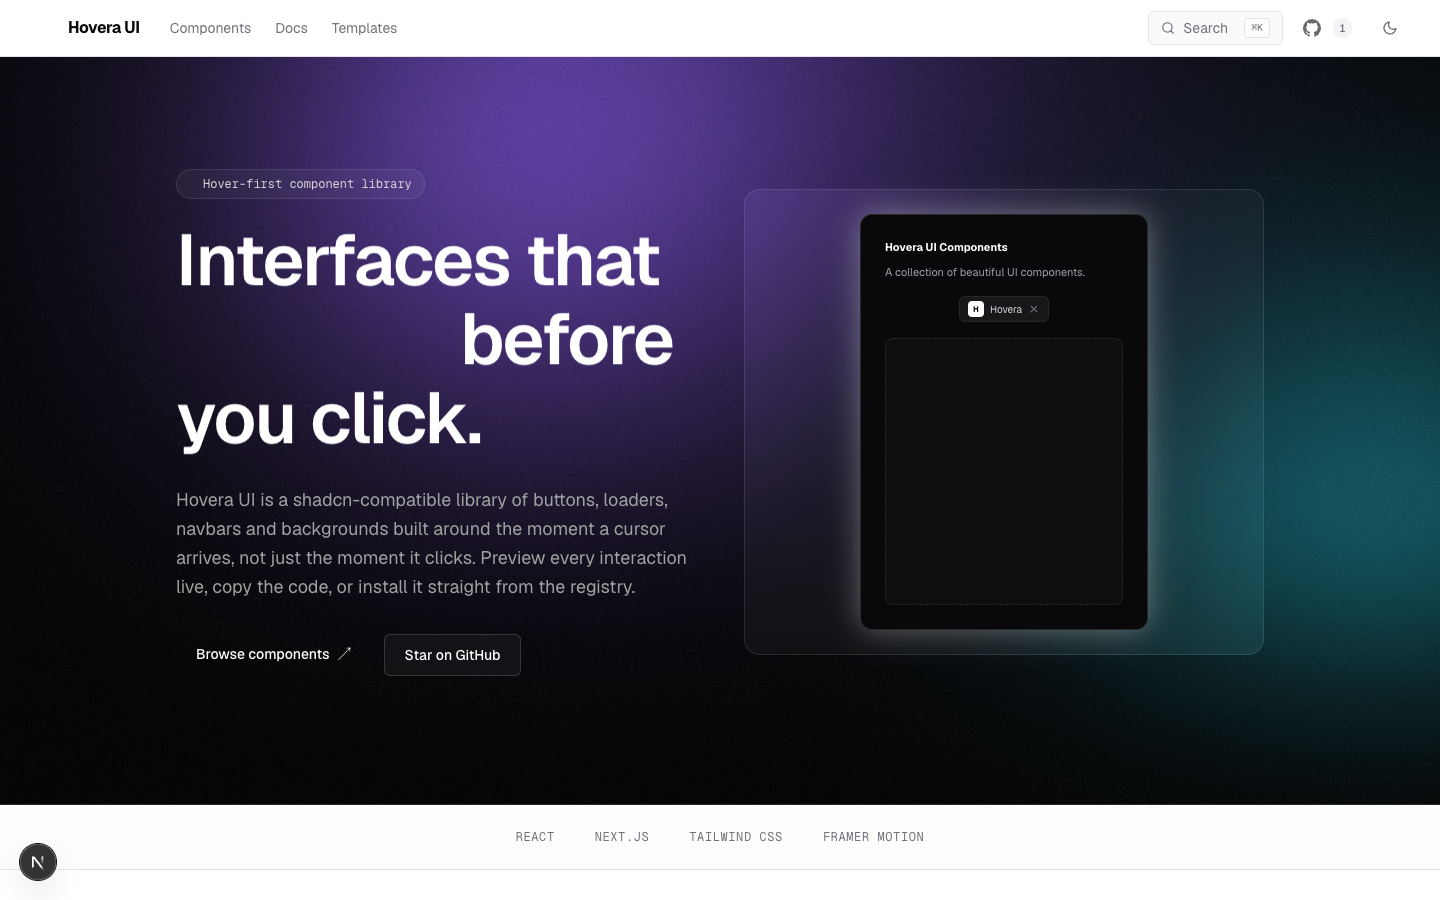
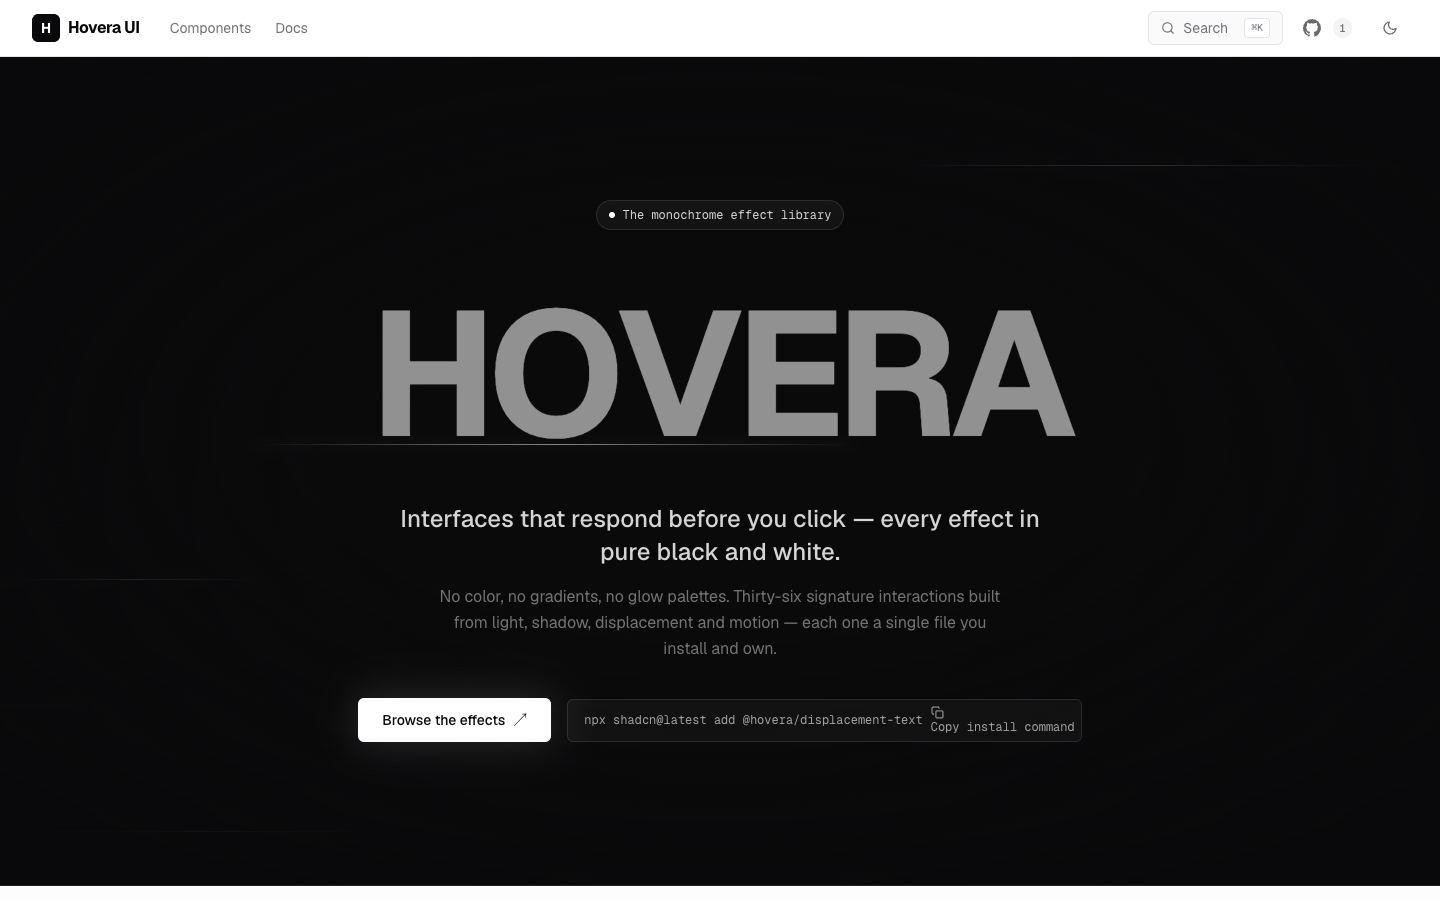
Monochrome cut finale: changelog, a11y 100, proof screenshots
- CHANGELOG records the 54 retired slugs, 4 added effects, IA move, and
  Lighthouse scores (desktop 99/100, mobile 88/100, CLS 0, TBT 0)
- DisplacementText ships sr-only text instead of prohibited aria-label on
  a span (fixes consumers too); GitHub-stars link name matches visible text
- Hero LCP text paints immediately; fresh screenshots in .github/screens

diff --git a/src/components/landing/Hero.tsx b/src/components/landing/Hero.tsx
@@ -66,14 +66,11 @@ export default function Hero() {
           />
         </div>
 
-        <h1
-          style={entrance(0.4)}
-          className="mt-4 max-w-2xl text-xl font-medium leading-snug text-neutral-300 sm:text-2xl"
-        >
+        <h1 className="mt-4 max-w-2xl text-xl font-medium leading-snug text-neutral-300 sm:text-2xl">
           Interfaces that respond before you click — every effect in pure black and white.
         </h1>
 
-        <p style={entrance(0.5)} className="mt-4 max-w-xl text-sm leading-relaxed text-neutral-500 sm:text-base">
+        <p className="mt-4 max-w-xl text-sm leading-relaxed text-neutral-500 sm:text-base">
           No color, no gradients, no glow palettes. Thirty-six signature interactions built from
           light, shadow, displacement and motion — each one a single file you install and own.
         </p>
@@ -96,7 +93,7 @@ export default function Hero() {
           <div className="flex items-center gap-2 rounded-md border border-white/10 bg-white/[0.03] py-1.5 pr-1.5 pl-4 font-mono text-xs text-neutral-400 backdrop-blur-sm">
             <span className="hidden sm:inline">{INSTALL}</span>
             <span className="sm:hidden">npx shadcn add @hovera/…</span>
-            <CopyButton code={INSTALL} label="Copy install command" />
+            <CopyButton code={INSTALL} label="Copy" />
           </div>
         </div>
       </motion.div>

diff --git a/src/components/layout/SiteNav.tsx b/src/components/layout/SiteNav.tsx
@@ -97,12 +97,12 @@ export default function SiteNav({ onOpenSidebar, onOpenCommand }: SiteNavProps) 
               href="https://github.com/WebDevAmey/HoveraUI"
               target="_blank"
               rel="noreferrer"
-              aria-label="Hovera UI on GitHub"
               className="flex h-8 items-center gap-1.5 rounded-md px-2 text-foreground/60 transition-colors hover:bg-secondary hover:text-foreground"
             >
               <svg width="18" height="18" viewBox="0 0 16 16" fill="currentColor" aria-hidden="true">
                 <path d="M8 0c4.42 0 8 3.58 8 8a8.01 8.01 0 0 1-5.45 7.59c-.4.08-.55-.17-.55-.38c0-.27.01-1.13.01-2.2c0-.75-.25-1.23-.54-1.48c1.78-.2 3.65-.88 3.65-3.95c0-.88-.31-1.59-.82-2.15c.08-.2.36-1.02-.08-2.12c0 0-.67-.22-2.2.82c-.64-.18-1.32-.27-2-.27s-1.36.09-2 .27c-1.53-1.03-2.2-.82-2.2-.82c-.44 1.1-.16 1.92-.08 2.12c-.51.56-.82 1.28-.82 2.15c0 3.06 1.86 3.75 3.64 3.95c-.23.2-.44.55-.51 1.07c-.46.21-1.61.55-2.33-.66c-.15-.24-.6-.83-1.23-.82c-.67.01-.27.38.01.53c.34.19.73.9.82 1.13c.16.45.68 1.31 2.69.94c0 .67.01 1.3.01 1.49c0 .21-.15.45-.55.38A7.995 7.995 0 0 1 0 8c0-4.42 3.58-8 8-8" />
               </svg>
+              <span className="sr-only">GitHub stars: </span>
               <GithubStars />
             </Link>
           </motion.div>

diff --git a/src/data/text.ts b/src/data/text.ts
@@ -229,8 +229,8 @@ export default function DisplacementText({
         "inline-flex cursor-default select-none py-6 text-4xl font-bold tracking-tight text-white " +
         className
       }
-      aria-label={text}
     >
+      <span className="sr-only">{text}</span>
       {text.split("").map((char, i) => (
         <span
           key={i}

diff --git a/src/components/text/DisplacementText.tsx b/src/components/text/DisplacementText.tsx
@@ -69,8 +69,8 @@ export default function DisplacementText({
         "inline-flex cursor-default select-none py-6 text-4xl font-bold tracking-tight text-white " +
         className
       }
-      aria-label={text}
     >
+      <span className="sr-only">{text}</span>
       {text.split("").map((char, i) => (
         <span
           key={i}

diff --git a/CHANGELOG.md b/CHANGELOG.md
@@ -2,6 +2,37 @@
 
 All notable changes to the Hovera UI registry and site.
 
+## 2026-07-06 — The Monochrome Cut (86 → 32 → 36 items)
+
+HoveraUI is now a curated monochrome effect library: every component expresses
+through light, shadow, blur, displacement and motion — never color.
+
+### Added (4 signature effects)
+
+`displacement-text`, `liquid-text`, `light-lines`, `pixel-trail` — all pure
+black/white, reduced-motion-safe, registry snippets byte-identical to the live
+components.
+
+### Removed (54 retired slugs — install URLs now 404)
+
+`aether-navbar`, `aurora`, `aurora-warm`, `blob-hover-button`, `border-reveal`, `bouncing-dots-loader`, `conic-swirl`, `crosshatch`, `diagonal-lines`, `dot-grid`, `dot-matrix`, `duotone-drift`, `ember-drift`, `frosted-glass-button`, `glass-shard`, `glow-button`, `gradient-link-button`, `gradient-text`, `grid-pattern`, `hex-grid`, `hover-arrow-button`, `link-button`, `luminance-flux-button`, `magma-vein`, `marquee`, `mesh-gradient`, `neon-swipe-button`, `new-button`, `noise-veil`, `outline-button`, `play-now-button`, `press-button`, `prism-spectrum`, `radical-navbar`, `read-more-button`, `rivet-press-button`, `rose-border-button`, `shimmer-swipe-button`, `skeleton-loader`, `slide-fill-button`, `slide-text-button`, `spinner-loader`, `spotlight-2`, `spotlight-3`, `spotlight-4`, `spotlight-5`, `spotlight-6`, `square-pattern`, `swipe-button`, `testimonial-carousel`, `timeline`, `underline-hover-button`, `vertex-navbar`, `violet-border-button`
+
+### Changed
+
+- All 32 surviving components converted to strict monochrome (chromatic hues →
+  neutral scale, colored glows → grayscale via max-channel; BorderBeam is now a
+  white-head/gray-tail comet). Registry snippets stayed byte-identical to sources.
+- Site IA: component pages moved to `/components/<slug>` (old `/docs/<slug>`
+  URLs 301 for survivors), gallery at `/components`, six real guide pages under
+  `/docs/*`, sidebar split into Documentation / Components.
+- Homepage rebuilt effect-forward: the hero headline IS the DisplacementText
+  component over the LightLines component; live signature bento; quick-start
+  with copy buttons. WebGL chrome (`ogl`) removed — the effects are the wow.
+- Glow/gradient color tokens removed from `globals.css`; chrome is pure B&W.
+- Lighthouse (prod): desktop 99 perf / 100 a11y; mobile 88 perf / 100 a11y
+  (FCP 0.9s, TBT 0ms, CLS 0; remaining mobile LCP gap is the webfont repaint
+  under 4G throttling).
+
 ## 2026-07-06 — Site redesign (glow identity)
 
 ### New components (3 → 86 items total)
